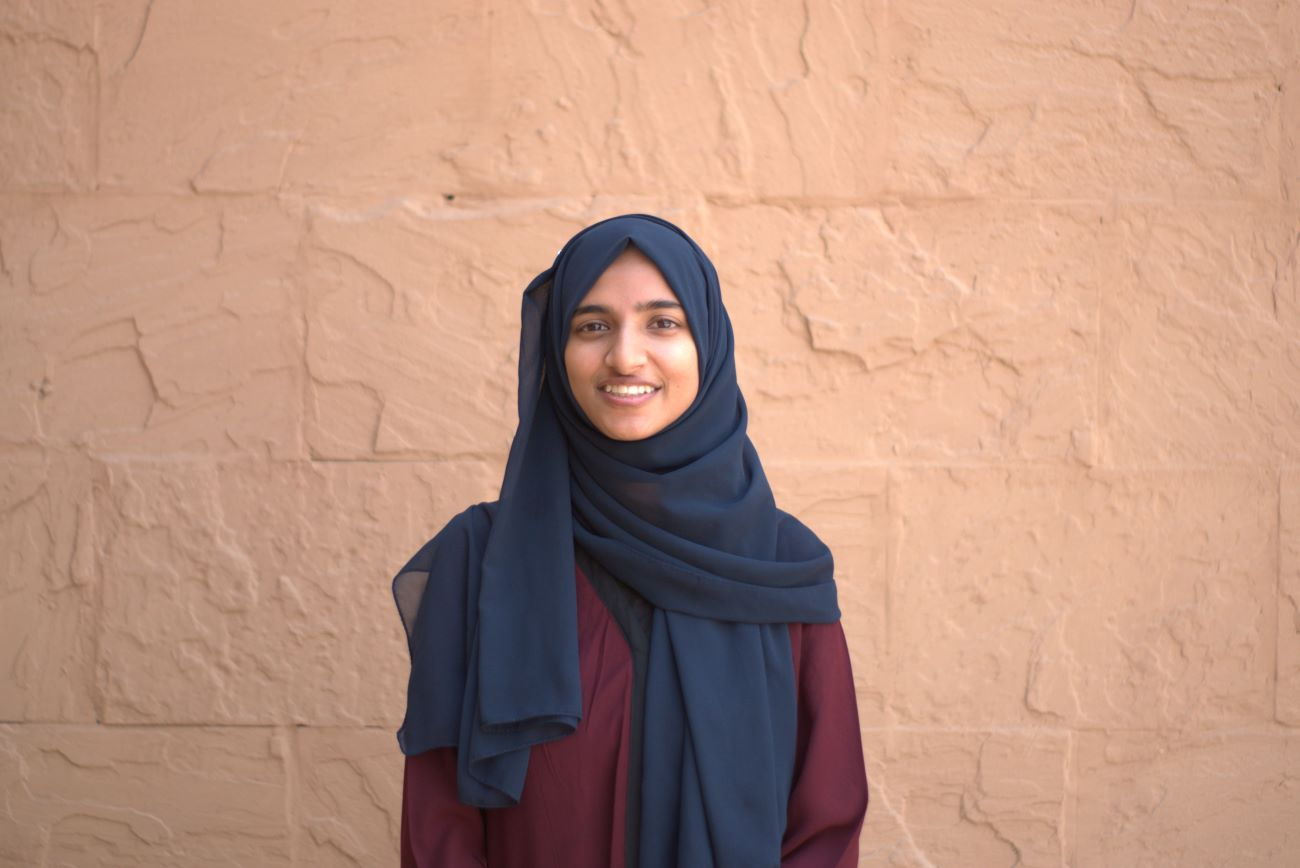
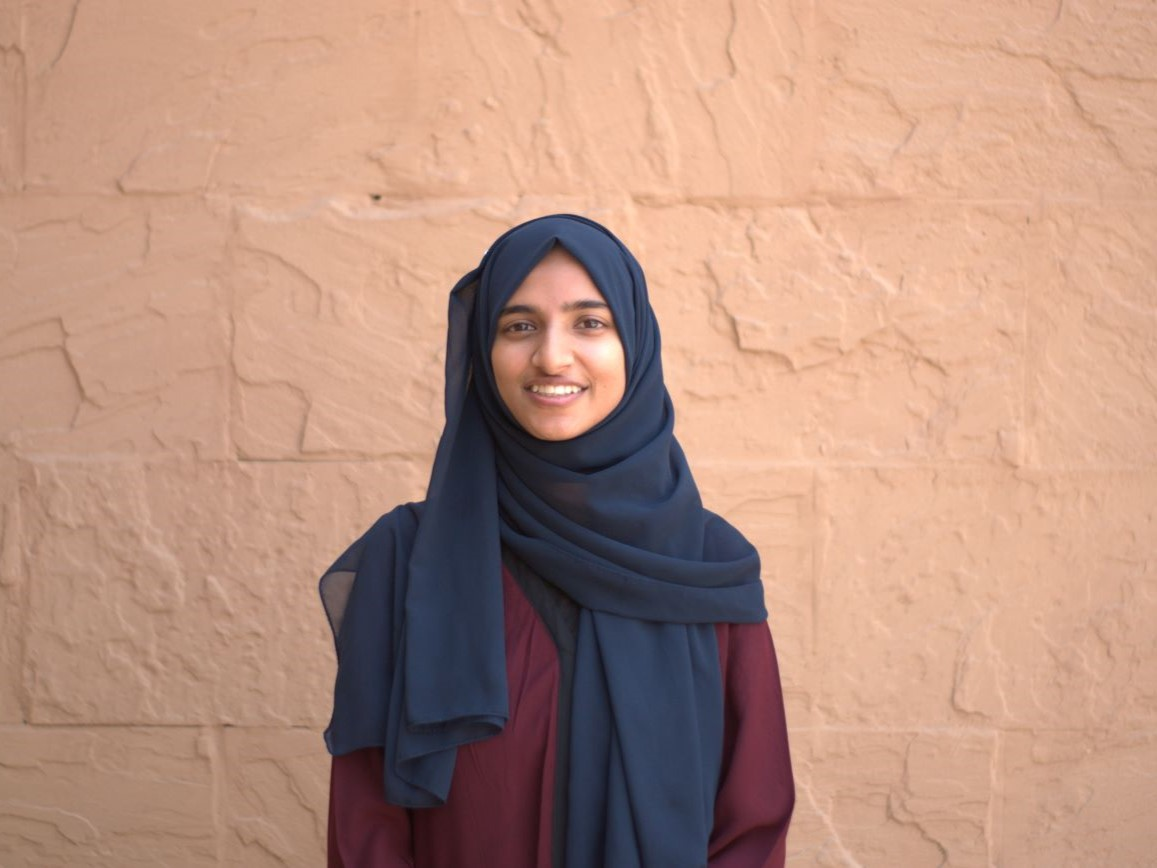
add labs images and resize images

diff --git a/src/components/Cards/TeamCard.jsx b/src/components/Cards/TeamCard.jsx
@@ -4,7 +4,7 @@ export const TeamCard = ({name, designation, corner}) => {
 
   return (
     <div className={`relative group overflow-hidden rounded-[25px] sm:rounded-[40px] md:rounded-[50px] border border-black w-full aspect-[4/3] ${cornerClass} bg-orange-50`}>
-      <img src={`/team/${name}.jpg`} alt="Missing"  className="h-full grayscale group-hover:grayscale-0" />
+      <img src={`/team/${name}.jpg`} alt="Missing"  className="grayscale group-hover:grayscale-0" />
       <div className="absolute inset-0 translate-y-full overflow-hidden group-hover:translate-y-0 gap-1 transition-transform duration-500 flex flex-col justify-end p-3 sm:p-4 md:p-5 lg:p-4 xl:p-6 bg-black/40">
         <p className="text-sm sm:text-base md:text-lg lg:text-base xl:text-2xl font-bold text-[#FBBA42] leading-none">{name}</p>
         <p className="text-[8px] xs:text-[10px] sm:text-xs leading-none lg:text-[10px] xl:text-sm text-white">{designation}</p>

diff --git a/src/Pages/Footer/FAQSection.jsx b/src/Pages/Footer/FAQSection.jsx
@@ -45,7 +45,7 @@ export const FAQSection = () => {
         </p>
         <div className="flex flex-col text-sm md:text-bas md:px-4 gap-2 xl:px-8">
           {FAQs.map(faq => 
-          <div onClick={() => setOpened(faq)} className="flex items-center gap-2">
+          <div onClick={() => setOpened(faq)} className="flex items-center gap-2 cursor-pointer">
             <div className="size-10">
               <HexagonPlayButton outerColor="#FABB41" />
             </div>
